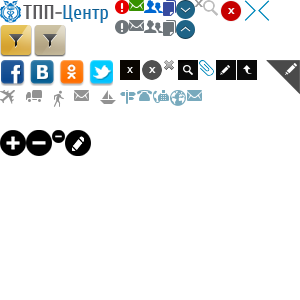
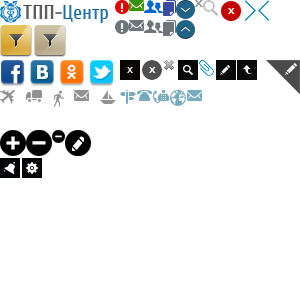
local menu fixes

Changed region(s): [[0.0, 0.51, 0.15, 0.6]]

diff --git a/tppcenter/templates/Companies/contentPage.html b/tppcenter/templates/Companies/contentPage.html
@@ -29,16 +29,16 @@
                                <div class="blockbox">
                                     <a href="#"><i class="btn-afisha imgnews"></i></a>
                                     <div class="localmenu">
-                                        {% if 'delete_company' in  permlist %}
-                                             <div class="tender-action"><i class="imgnews remove icon-action"></i><a href="{% url 'companies:delete' id %}?next={{ current_path }}"> <span class="deletext">{% trans 'remove' %}</span></a></div>
-                                        {% endif %}
                                         {% if 'change_company' in permlist %}
                                              <div class="tender-action"><i class="imgnews edit icon-action"></i><a href="{% url 'companies:update' id %}?next={{ current_path }}"> <span class="deletext">{% trans 'edit' %}</span></a></div>
-                                              <div class="tender-action"><i class="imgnews edit icon-action"></i><a href="{% url 'setCurrent' id %}?next={{ current_path }}"> <span class="deletext">{% trans 'set current' %}</span></a></div>
+                                              <div class="tender-action"><i class="imgnews sett icon-action"></i><a href="{% url 'setCurrent' id %}?next={{ current_path }}"> <span class="deletext">{% trans 'set current' %}</span></a></div>
                                        {% endif %}
                                        {% if 'add_advtop' in permlist %}
-                                           <div class="tender-action"><i class="imgnews edit icon-action"></i><a href="{% url 'adv_top:top_form' id %}?next={{ current_path }}"> <span class="deletext">{% trans 'add top' %}</span></a></div>
+                                           <div class="tender-action"><i class="imgnews noty icon-action"></i><a href="{% url 'adv_top:top_form' id %}?next={{ current_path }}"> <span class="deletext">{% trans 'add top' %}</span></a></div>
                                        {% endif %}
+                                       {% if 'delete_company' in  permlist %}
+                                             <div class="tender-action"><i class="imgnews remove icon-action"></i><a href="{% url 'companies:delete' id %}?next={{ current_path }}"> <span class="deletext">{% trans 'remove' %}</span></a></div>
+                                        {% endif %}
                                     </div>
                                 </div>
                            {% endif %}

diff --git a/tppcenter/templates/Products/contentPage.html b/tppcenter/templates/Products/contentPage.html
@@ -24,14 +24,14 @@
                             <div class="blockbox">
                                 <a href="#"><i class="btn-afisha imgnews"></i></a>
                                 <div class="localmenu">
-                                    {% if 'delete_product' in  permlist %}
-                                         <div class="tender-action"><i class="imgnews remove icon-action"></i><a href="{% url 'products:delete' id %}?next={{ current_path }}"> <span class="deletext">{% trans 'remove' %}</span></a></div>
-                                    {% endif %}
                                     {% if 'change_product' in permlist %}
                                          <div class="tender-action"><i class="imgnews edit icon-action"></i><a href="{% url 'products:update' id %}?next={{ current_path }}"> <span class="deletext">{% trans 'edit' %}</span></a></div>
                                     {% endif %}
                                     {% if 'add_advtop' in permlist %}
-                                         <div class="tender-action"><i class="imgnews edit icon-action"></i><a href="{% url 'adv_top:top_form' id %}?next={{ current_path }}"> <span class="deletext">{% trans 'add top' %}</span></a></div>
+                                         <div class="tender-action"><i class="imgnews noty icon-action"></i><a href="{% url 'adv_top:top_form' id %}?next={{ current_path }}"> <span class="deletext">{% trans 'add top' %}</span></a></div>
+                                    {% endif %}
+                                    {% if 'delete_product' in  permlist %}
+                                         <div class="tender-action"><i class="imgnews remove icon-action"></i><a href="{% url 'products:delete' id %}?next={{ current_path }}"> <span class="deletext">{% trans 'remove' %}</span></a></div>
                                     {% endif %}
                                 </div>
                             </div>

diff --git a/tppcenter/templates/BusinessProposal/contentPage.html b/tppcenter/templates/BusinessProposal/contentPage.html
@@ -28,14 +28,14 @@
                     <div class="blockbox">
                             <a href="#"><i class="btn-afisha imgnews"></i></a>
                             <div class="localmenu">
-                                {% if 'delete_businessproposal' in  permlist %}
-                                     <div class="tender-action"><i class="imgnews remove icon-action"></i><a href="{% url 'proposal:delete' id %}?next={{ current_path }}"> <span class="deletext">{% trans 'remove' %}</span></a></div>
-                                {% endif %}
                                 {% if 'change_businessproposal' in permlist %}
                                      <div class="tender-action"><i class="imgnews edit icon-action"></i><a href="{% url 'proposal:update' id %}?next={{ current_path }}"> <span class="deletext">{% trans 'edit' %}</span></a></div>
                                 {% endif %}
                                 {% if 'add_advtop' in permlist %}
-                                     <div class="tender-action"><i class="imgnews edit icon-action"></i><a href="{% url 'adv_top:top_form' id %}?next={{ current_path }}"> <span class="deletext">{% trans 'add top' %}</span></a></div>
+                                     <div class="tender-action"><i class="imgnews noty icon-action"></i><a href="{% url 'adv_top:top_form' id %}?next={{ current_path }}"> <span class="deletext">{% trans 'add top' %}</span></a></div>
+                                {% endif %}
+                                {% if 'delete_businessproposal' in  permlist %}
+                                     <div class="tender-action"><i class="imgnews remove icon-action"></i><a href="{% url 'proposal:delete' id %}?next={{ current_path }}"> <span class="deletext">{% trans 'remove' %}</span></a></div>
                                 {% endif %}
                             </div>
                         </div>

diff --git a/tppcenter/templates/Innov/contentPage.html b/tppcenter/templates/Innov/contentPage.html
@@ -38,14 +38,14 @@
                     <div class="blockbox">
                             <a href="#"><i class="btn-afisha imgnews"></i></a>
                             <div class="localmenu">
-                                {% if 'delete_innovationproject' in  permlist %}
-                                     <div class="tender-action"><i class="imgnews remove icon-action"></i><a href="{% url 'innov:delete' id %}?next={{ current_path }}"> <span class="deletext">{% trans 'remove' %}</span></a></div>
-                                {% endif %}
                                 {% if 'change_innovationproject' in permlist %}
                                      <div class="tender-action"><i class="imgnews edit icon-action"></i><a href="{% url 'innov:update' id %}?next={{ current_path }}"> <span class="deletext">{% trans 'edit' %}</span></a></div>
                                 {% endif %}
                                 {% if 'add_advtop' in permlist %}
-                                     <div class="tender-action"><i class="imgnews edit icon-action"></i><a href="{% url 'adv_top:top_form' id %}?next={{ current_path }}"> <span class="deletext">{% trans 'add top' %}</span></a></div>
+                                     <div class="tender-action"><i class="imgnews noty icon-action"></i><a href="{% url 'adv_top:top_form' id %}?next={{ current_path }}"> <span class="deletext">{% trans 'add top' %}</span></a></div>
+                                 {% endif %}
+                                 {% if 'delete_innovationproject' in  permlist %}
+                                     <div class="tender-action"><i class="imgnews remove icon-action"></i><a href="{% url 'innov:delete' id %}?next={{ current_path }}"> <span class="deletext">{% trans 'remove' %}</span></a></div>
                                  {% endif %}
                             </div>
                         </div>

diff --git a/tppcenter/templates/Exhibitions/contentPage.html b/tppcenter/templates/Exhibitions/contentPage.html
@@ -32,14 +32,14 @@
                     <div class="blockbox">
                             <a href="#"><i class="btn-afisha imgnews"></i></a>
                             <div class="localmenu">
-                                {% if 'delete_exhibition' in  permlist %}
-                                     <div class="tender-action"><i class="imgnews remove icon-action"></i><a href="{% url 'exhibitions:delete' id %}?next={{ current_path }}"> <span class="deletext">{% trans 'remove' %}</span></a></div>
-                                {% endif %}
                                 {% if 'change_exhibition' in permlist %}
                                      <div class="tender-action"><i class="imgnews edit icon-action"></i><a href="{% url 'exhibitions:update' id %}?next={{ current_path }}"> <span class="deletext">{% trans 'edit' %}</span></a></div>
                                 {% endif %}
                                 {% if 'add_advtop' in permlist %}
-                                     <div class="tender-action"><i class="imgnews edit icon-action"></i><a href="{% url 'adv_top:top_form' id %}?next={{ current_path }}"> <span class="deletext">{% trans 'add top' %}</span></a></div>
+                                     <div class="tender-action"><i class="imgnews noty icon-action"></i><a href="{% url 'adv_top:top_form' id %}?next={{ current_path }}"> <span class="deletext">{% trans 'add top' %}</span></a></div>
+                                {% endif %}
+                                {% if 'delete_exhibition' in  permlist %}
+                                     <div class="tender-action"><i class="imgnews remove icon-action"></i><a href="{% url 'exhibitions:delete' id %}?next={{ current_path }}"> <span class="deletext">{% trans 'remove' %}</span></a></div>
                                 {% endif %}
                             </div>
                         </div>

diff --git a/tppcenter/templates/News/contentPage.html b/tppcenter/templates/News/contentPage.html
@@ -26,11 +26,11 @@
                             <div class="blockbox">
                                 <a href="#"><i class="btn-afisha imgnews"></i></a>
                                 <div class="localmenu">
-                                    {% if 'delete_news' in  permlist or redactor %}
-                                         <div class="tender-action"><i class="imgnews remove icon-action"></i><a href="{% url 'news:delete' id %}?next={{ current_path }}"> <span class="deletext">{% trans 'remove' %}</span></a></div>
-                                    {% endif %}
                                     {% if 'change_news' in permlist or redactor %}
                                          <div class="tender-action"><i class="imgnews edit icon-action"></i><a href="{% url 'news:update' id %}?next={{ current_path }}"> <span class="deletext">{% trans 'edit' %}</span></a></div>
+                                    {% endif %}
+                                    {% if 'delete_news' in  permlist or redactor %}
+                                         <div class="tender-action"><i class="imgnews remove icon-action"></i><a href="{% url 'news:delete' id %}?next={{ current_path }}"> <span class="deletext">{% trans 'remove' %}</span></a></div>
                                     {% endif %}
                                 </div>
                             </div>

diff --git a/tppcenter/templates/Tenders/contentPage.html b/tppcenter/templates/Tenders/contentPage.html
@@ -28,11 +28,11 @@
                     <div class="blockbox">
                             <a href="#"><i class="btn-afisha imgnews"></i></a>
                             <div class="localmenu">
-                                {% if 'delete_tender' in  permlist %}
-                                     <div class="tender-action"><i class="imgnews remove icon-action"></i><a href="{% url 'tenders:delete' id %}?next={{ current_path }}"> <span class="deletext">{% trans 'remove' %}</span></a></div>
-                                {% endif %}
                                 {% if 'change_tender' in permlist %}
                                      <div class="tender-action"><i class="imgnews edit icon-action"></i><a href="{% url 'tenders:update' id %}?next={{ current_path }}"> <span class="deletext">{% trans 'edit' %}</span></a></div>
+                                {% endif %}
+                                {% if 'delete_tender' in  permlist %}
+                                     <div class="tender-action"><i class="imgnews remove icon-action"></i><a href="{% url 'tenders:delete' id %}?next={{ current_path }}"> <span class="deletext">{% trans 'remove' %}</span></a></div>
                                 {% endif %}
                             </div>
                         </div>

diff --git a/tppcenter/templates/TppTV/contentPage.html b/tppcenter/templates/TppTV/contentPage.html
@@ -23,8 +23,8 @@
                             <a href="#"><i class="btn-afisha imgnews"></i></a>
                             <div class="localmenu">
                                 {% if 'redactor'  %}
+                                    <div class="tender-action"><i class="imgnews edit icon-action"></i><a href="{% url 'tv:update' id %}?next={{ current_path }}"> <span class="deletext">{% trans 'edit' %}</span></a></div>
                                      <div class="tender-action"><i class="imgnews remove icon-action"></i><a href="{% url 'tv:delete' id %}?next={{ current_path }}"> <span class="deletext">{% trans 'remove' %}</span></a></div>
-                                     <div class="tender-action"><i class="imgnews edit icon-action"></i><a href="{% url 'tv:update' id %}?next={{ current_path }}"> <span class="deletext">{% trans 'edit' %}</span></a></div>
                                 {% endif %}
                             </div>
                         </div>

diff --git a/tppcenter/templates/Tpp/contentPage.html b/tppcenter/templates/Tpp/contentPage.html
@@ -30,7 +30,7 @@
                                 <div class="localmenu">
                                     {% if 'change_tpp' in permlist %}
                                          <div class="tender-action"><i class="imgnews edit icon-action"></i><a href="{% url 'tpp:update' id %}?next={{ current_path }}"> <span class="deletext">{% trans 'edit' %}</span></a></div>
-                                         <div class="tender-action"><i class="imgnews edit icon-action"></i><a href="{% url 'setCurrent' id %}?next={{ current_path }}"> <span class="deletext">{% trans 'set current' %}</span></a></div>
+                                         <div class="tender-action"><i class="imgnews sett icon-action"></i><a href="{% url 'setCurrent' id %}?next={{ current_path }}"> <span class="deletext">{% trans 'set current' %}</span></a></div>
                                     {% endif %}
                                 </div>
                             </div>

diff --git a/appl/Static/tppcenter/css/company.css b/appl/Static/tppcenter/css/company.css
@@ -408,7 +408,10 @@ rgb(33,136,187) 100%);}
 .tender-action .edit{background-position:-216px -60px;}
 .tender-action .ads{background-position:-237px -60px;}
 .tender-action .deletext{ float:left; font-size:11px; color:#FFF; line-height:20px; width:84px; padding-left:8px;}
+.tender-action .noty{background-position:0px -158px;}
+.tender-action .sett{background-position:-22px -158px;}
 .cpn-staff .social{ text-align:right;}
+
 
 /*--------------Menucategories------------------*/
 .menucategories{ position:absolute; width:180px; background:#e6e6e6; border:1px #cacaca solid; box-shadow:0px 3px 3px #dedede; display:none; top:21px; left:12px; z-index:99; border-radius:0px 0px 2px 2px;}
